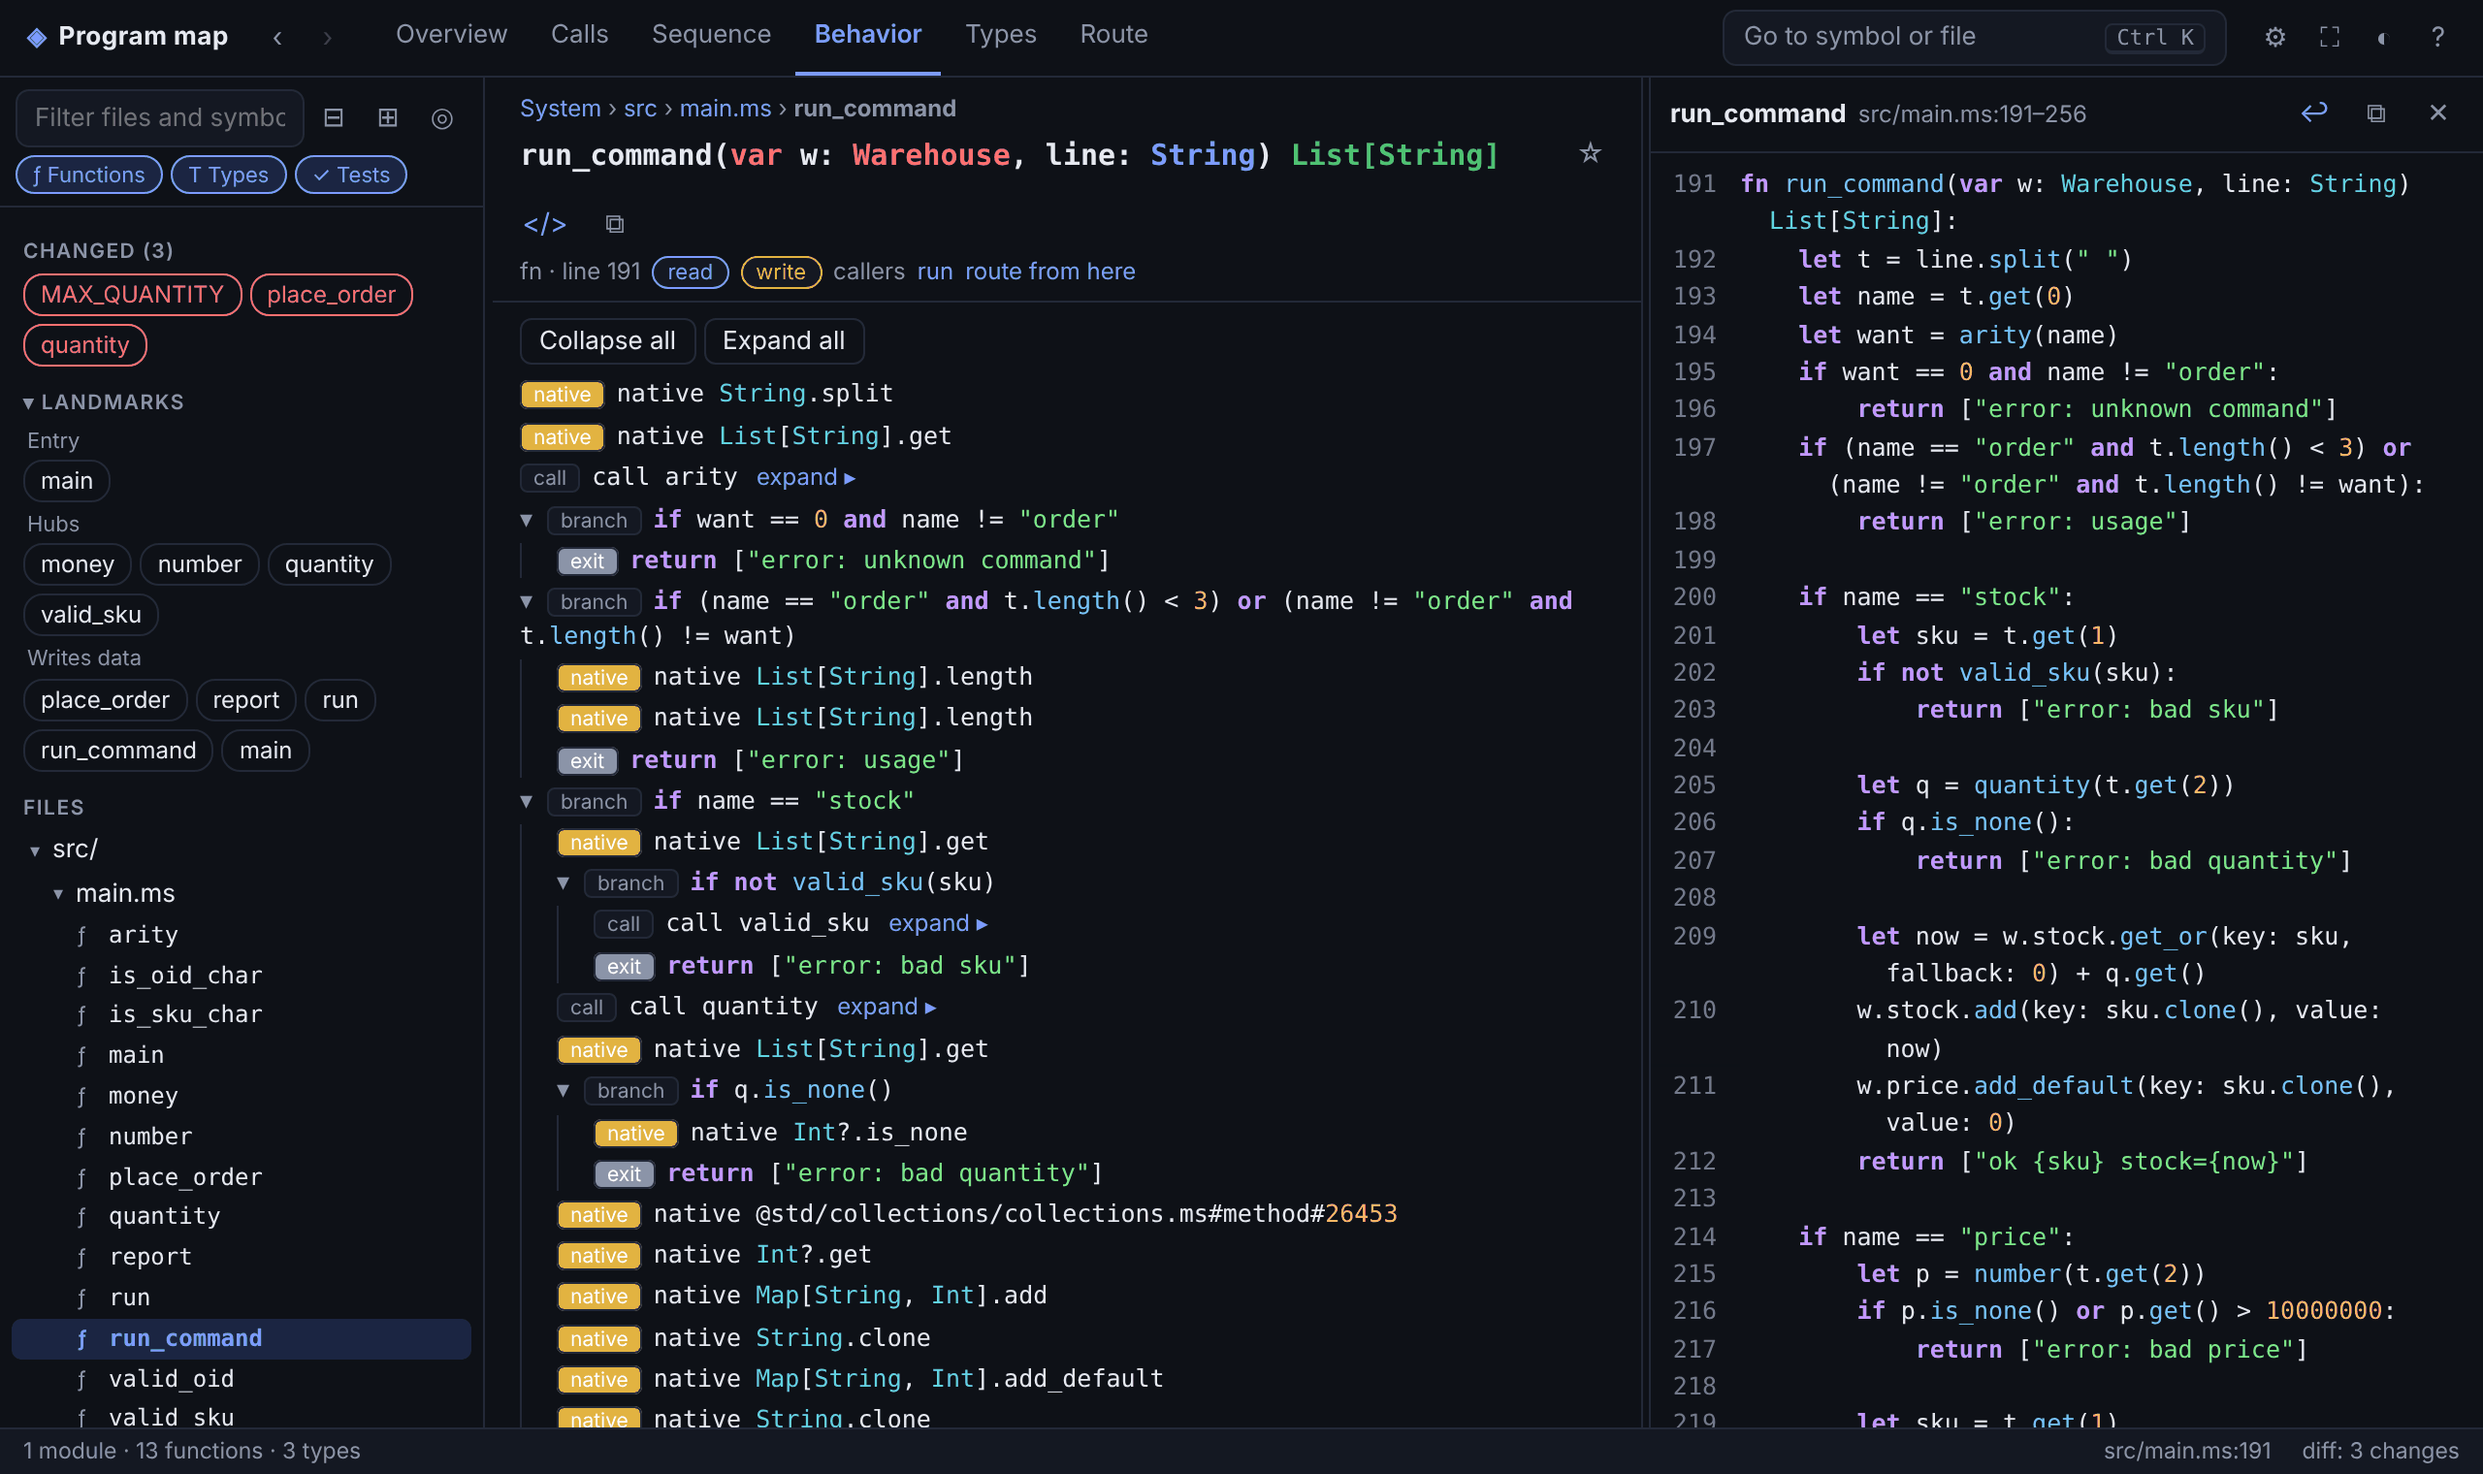
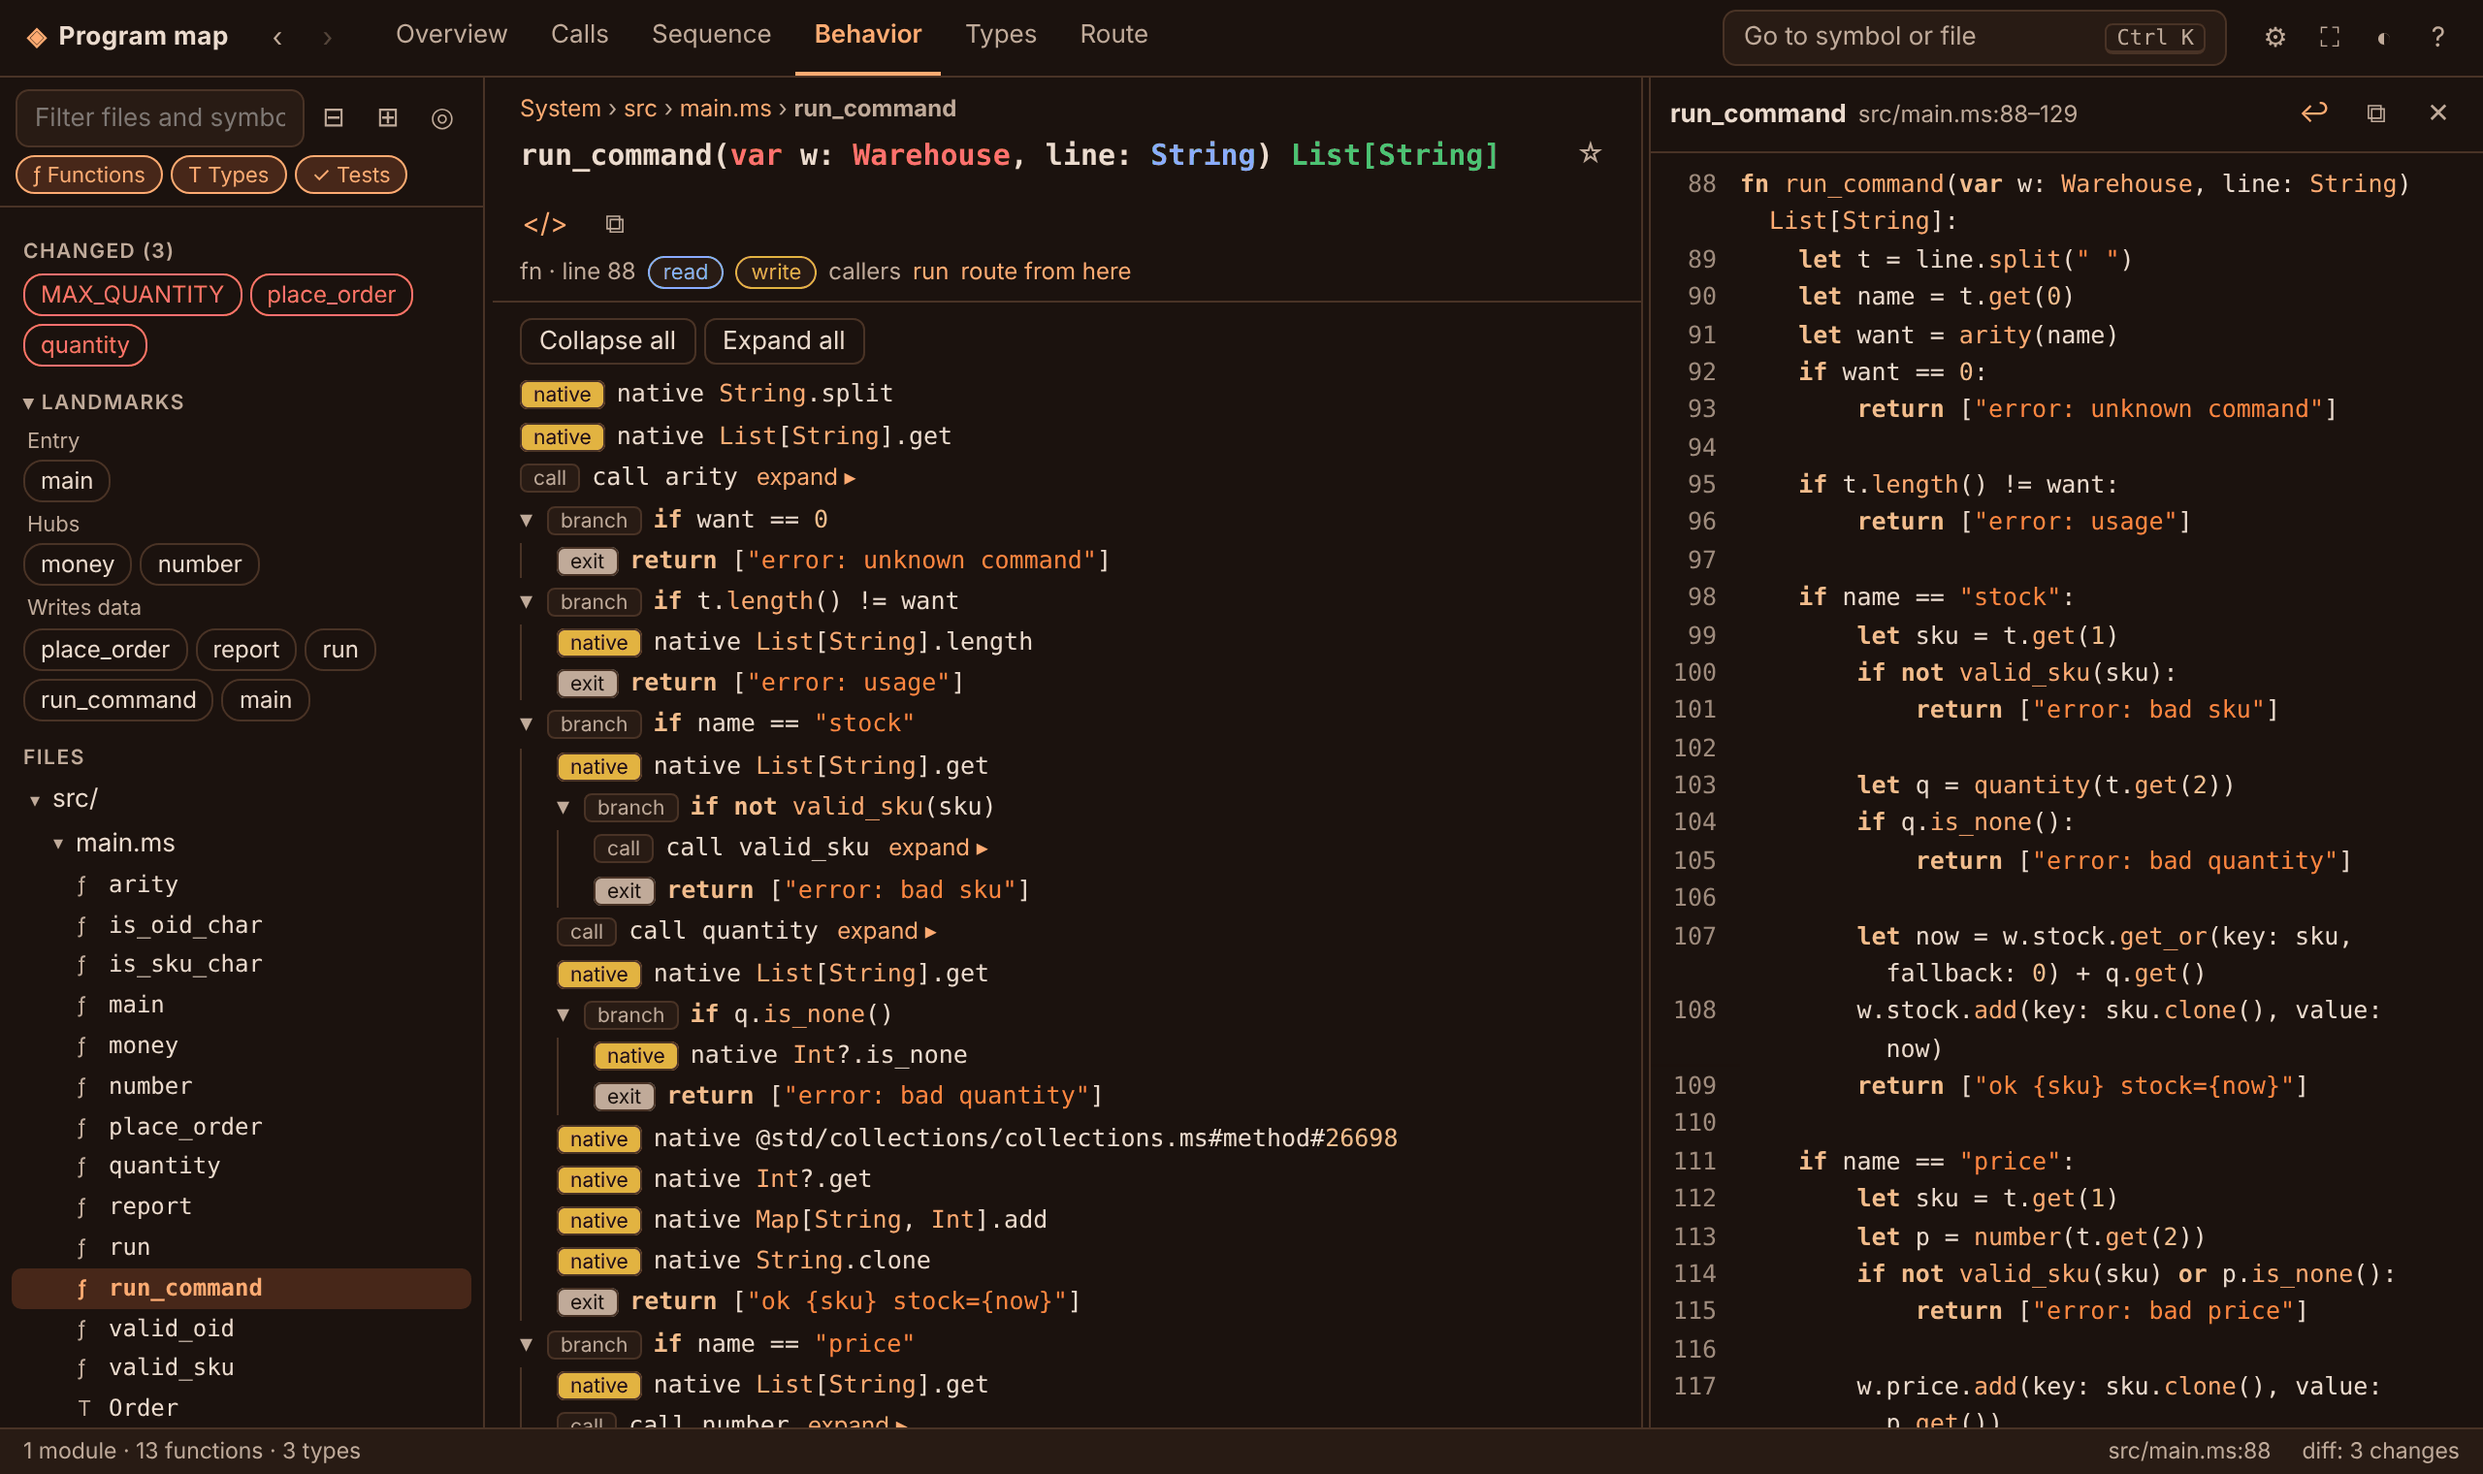
Match HTML code maps to the warm documentation theme (#2692)
* Match HTML code maps to the warm documentation theme

* Replay the theme change onto current main

Claude-Session: https://claude.ai/code/session_013KnEKGqXK4QvNGNTXMV6gY

* Remove files carried over from the old branch base

Claude-Session: https://claude.ai/code/session_013KnEKGqXK4QvNGNTXMV6gY

* Refresh code-map screenshots in the warm theme

Claude-Session: https://claude.ai/code/session_013KnEKGqXK4QvNGNTXMV6gY

---------

diff --git a/crates/ms-tooling/src/page.html b/crates/ms-tooling/src/page.html
@@ -5,9 +5,10 @@
 <meta name="viewport" content="width=device-width, initial-scale=1">
 <title>Program map</title>
 <style>
-:root{--kw:#8250df;--ty:#0a7e8c;--st:#1a7f37;--nu:#b35900;--cm:#8a919e;--fnc:#0550ae;--bg:#fbfbfd;--fg:#1b2030;--mut:#6a7286;--line:#e3e6ee;--pan:#f3f4f8;--node:#fff;--sel:#e8edff;--acc:#4562e8;--pure:#e6f6ea;--pures:#3aa65a;--eff:#fdf3d8;--effs:#c28a14;--ent:#e8edff;--var:#d6403f;--own:#2f9a4f;--brw:#3a62c9}
-@media (prefers-color-scheme:dark){:root:not([data-theme=light]){--kw:#c297ff;--ty:#5fd3e0;--st:#7ee787;--nu:#ffb86b;--cm:#7d8590;--fnc:#79c0ff;--bg:#0e1117;--fg:#e6e9f0;--mut:#8b94a8;--line:#232938;--pan:#141822;--node:#171c27;--sel:#1b2542;--acc:#7c9bff;--pure:#16301f;--pures:#4cc272;--eff:#33290f;--effs:#e2b341;--ent:#1b2542;--var:#ff7070;--own:#4cc272;--brw:#7c9bff}}
-:root[data-theme=dark]{--kw:#c297ff;--ty:#5fd3e0;--st:#7ee787;--nu:#ffb86b;--cm:#7d8590;--fnc:#79c0ff;--bg:#0e1117;--fg:#e6e9f0;--mut:#8b94a8;--line:#232938;--pan:#141822;--node:#171c27;--sel:#1b2542;--acc:#7c9bff;--pure:#16301f;--pures:#4cc272;--eff:#33290f;--effs:#e2b341;--ent:#1b2542;--var:#ff7070;--own:#4cc272;--brw:#7c9bff}
+/* Brand and syntax tokens mirror website/assets/_custom.scss; semantic colors stay distinct. */
+:root{color-scheme:light;--kw:#925326;--ty:#a33d14;--st:#a33d14;--nu:#925326;--cm:#776252;--fnc:#a33d14;--bg:#fcf7f0;--fg:#38271f;--mut:#776252;--line:#e3d2c2;--pan:#f5eadf;--node:#fffbf6;--sel:#ffe1c7;--acc:#a33d14;--pure:#e6f6ea;--pures:#26743d;--eff:#fdf3d8;--effs:#856008;--ent:#ffe1c7;--var:#b72e38;--own:#26743d;--brw:#345bb2;--spawn:#7640ad;--badgefg:#ffffff}
+@media (prefers-color-scheme:dark){:root:not([data-theme=light]){color-scheme:dark;--kw:#f2bc8d;--ty:#ffab72;--st:#ff873e;--nu:#f2bc8d;--cm:#c0aa99;--fnc:#ffab72;--bg:#1b120e;--fg:#ebdbce;--mut:#c0aa99;--line:#493326;--pan:#281b14;--node:#241810;--sel:#472719;--acc:#ffab72;--pure:#16301f;--pures:#4cc272;--eff:#33290f;--effs:#e2b341;--ent:#472719;--var:#ff7070;--own:#4cc272;--brw:#8aabff;--spawn:#cba2f2;--badgefg:#1b120e}}
+:root[data-theme=dark]{color-scheme:dark;--kw:#f2bc8d;--ty:#ffab72;--st:#ff873e;--nu:#f2bc8d;--cm:#c0aa99;--fnc:#ffab72;--bg:#1b120e;--fg:#ebdbce;--mut:#c0aa99;--line:#493326;--pan:#281b14;--node:#241810;--sel:#472719;--acc:#ffab72;--pure:#16301f;--pures:#4cc272;--eff:#33290f;--effs:#e2b341;--ent:#472719;--var:#ff7070;--own:#4cc272;--brw:#8aabff;--spawn:#cba2f2;--badgefg:#1b120e}
 *{box-sizing:border-box}
 a{color:var(--acc)}
 body{margin:0;font:13px/1.4 -apple-system,BlinkMacSystemFont,'Segoe UI',Inter,system-ui,sans-serif;background:var(--bg);color:var(--fg);height:100vh;overflow:hidden;display:grid;
@@ -41,7 +42,7 @@ aside{grid-row:2;grid-column:1;display:flex;flex-direction:column;min-height:0;b
 .item{padding:2px 6px;border-radius:5px;cursor:pointer;white-space:nowrap;overflow:hidden;text-overflow:ellipsis;font-family:ui-monospace,SFMono-Regular,Menlo,monospace;font-size:12px}
 .item.sel{background:var(--sel);color:var(--acc);font-weight:600}.item:focus,.file:focus{outline:1px solid var(--acc)}
 .k{display:inline-block;width:16px;color:var(--mut);font-size:11px;font-family:system-ui,sans-serif}
-.item.sel .k{color:var(--acc)}.star{color:#e0a82e}
+.item.sel .k{color:var(--acc)}.star{color:var(--effs)}
 #sp1{grid-column:2}#sp2{grid-column:4}
 .split{grid-row:2;width:4px;cursor:col-resize;background:transparent;border-left:1px solid var(--line);margin-left:-1px;z-index:2}.split:hover,.split.drag{background:var(--acc);opacity:.45}
 main{grid-row:2;grid-column:3;overflow:auto;padding:0;min-width:0;display:flex;flex-direction:column}
@@ -72,7 +73,7 @@ svg .life{stroke:var(--line);stroke-dasharray:4}svg .note rect{fill:var(--eff);s
 .flow li{margin:3px 0}.flow summary{cursor:pointer;list-style:none}.flow summary::-webkit-details-marker{display:none}
 .flow summary::before{content:'▾';display:inline-block;width:14px;color:var(--mut)}.flow details:not([open])>summary::before{content:'▸'}
 .flow .kind{font-size:10.5px;padding:0 6px;border-radius:4px;margin-right:6px;background:var(--pan);border:1px solid var(--line);color:var(--mut)}
-.kind.try{background:var(--var);color:#fff;border-color:var(--var)}.kind.spawn{background:#8a4fd6;color:#fff}.kind.scope{background:var(--effs);color:#fff}.kind.exit{background:var(--mut);color:#fff}.kind.native{background:var(--effs);color:#fff}
+.kind.try{background:var(--var);color:var(--badgefg);border-color:var(--var)}.kind.spawn{background:var(--spawn);color:var(--badgefg)}.kind.scope{background:var(--effs);color:var(--badgefg)}.kind.exit{background:var(--mut);color:var(--badgefg)}.kind.native{background:var(--effs);color:var(--badgefg)}
 .flow code{font:12.5px ui-monospace,SFMono-Regular,Menlo,monospace}.flow button{border:0;background:none;color:var(--acc);cursor:pointer;font-size:12px}
 .hint{color:var(--mut)}.empty{display:grid;place-items:center;height:60%;color:var(--mut);text-align:center;gap:6px}.empty b{color:var(--fg);font-size:14px}
 .chips{display:flex;flex-wrap:wrap;gap:4px;margin:2px 6px}.chip{padding:0 8px;border-radius:10px;border:1px solid var(--line);background:var(--bg);cursor:pointer;font-size:12px;line-height:20px}

diff --git a/wiki/tooling-and-docs/polish-the-documentation-design-without-expanding-its-prose.md b/wiki/tooling-and-docs/polish-the-documentation-design-without-expanding-its-prose.md
@@ -8,3 +8,5 @@ Apply when: redesigning the documentation shell or overview, or extending its vi
 Evidence: the user's documentation redesign correction; [Tailwind docs](https://tailwindcss.com/docs/installation/using-vite); [Vercel docs](https://vercel.com/docs); [site-owned visual system](../../website/assets/_custom.scss); [overview presentation](../../website/layouts/_shortcodes/docs-home.html).
 Verify: inspect desktop and narrow mobile renders in both themes; the first action and example remain readable with brief supporting copy. This records the requested direction; verify its implementation in the checkout being edited.
 Verify: compare authored Markdown with the base branch, keep semantic changes out of visual work, check desktop and mobile reading pages, and run the strict Hugo build with a repository URL prefix (`make book-check`). Verify actual token colors in light and dark mode, unchanged copied text, and plain terminal output.
+
+Decision: generated HTML code maps share the public site’s warm cream/orange light palette and espresso/orange dark palette. Keep ownership, mutation, effects, and asynchronous steps distinguishable from the brand accent; the offline map must not acquire network font or asset dependencies. The [theme regression](../../tests/diagram/theme.test.cjs) checks site-token alignment, both dark selectors, and text contrast. Refresh the real [documentation screenshots](../../website/screenshots/README.md) when the map changes; static color checks do not establish visual quality.
